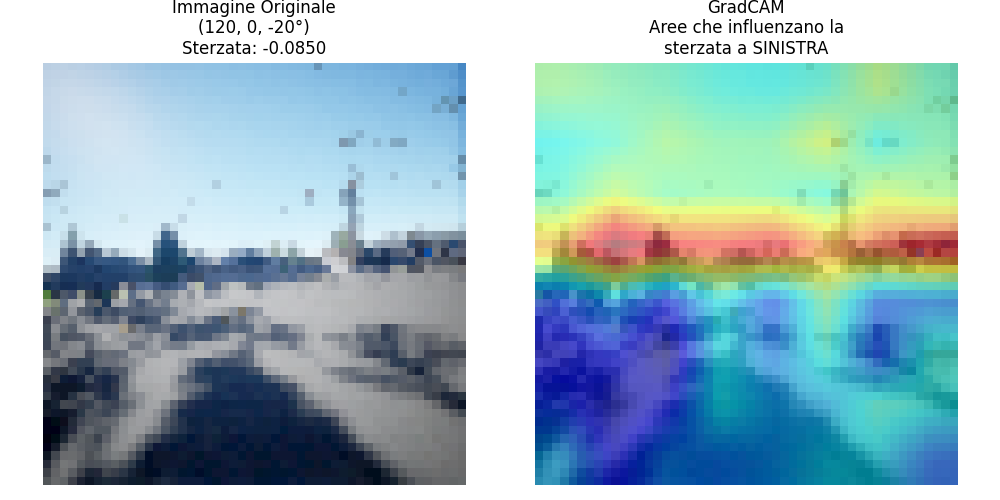
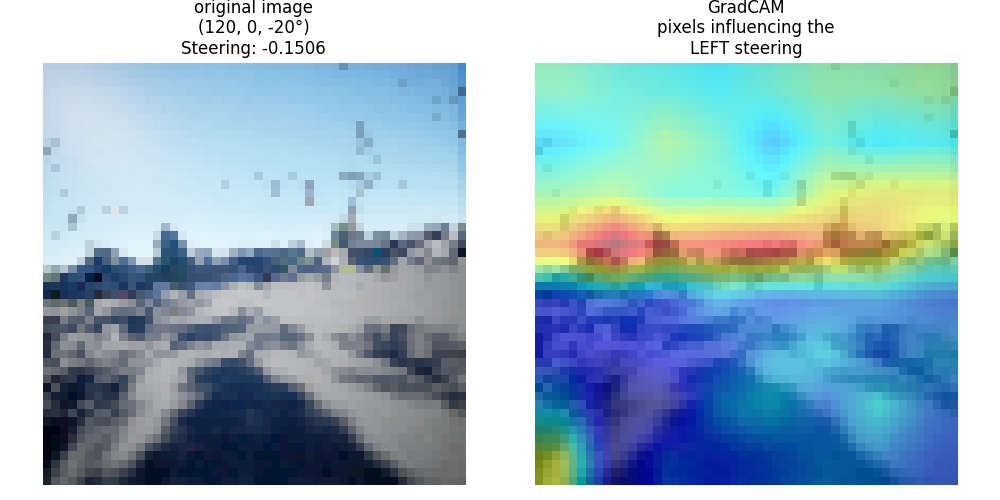
Beta_fixing

diff --git a/grad_cam.py b/grad_cam.py
@@ -14,30 +14,30 @@ from scripts.network import NatureCNN
 from pytorch_grad_cam import GradCAM, HiResCAM, ScoreCAM, GradCAMPlusPlus
 import importlib.metadata
 
-print("🧪 Versione grad-cam in uso:", importlib.metadata.version("grad-cam"))
+print("grad-cam version:", importlib.metadata.version("grad-cam"))
 
 import inspect
 
-print("📦 GradCAM viene importato da:", inspect.getfile(GradCAM))
+print("GradCAM imported from:", inspect.getfile(GradCAM))
 
 from pytorch_grad_cam.utils.image import show_cam_on_image
 import math
 
-# Caricamento delle configurazioni
+# configuration loading
 with open('scripts/env_config.yml', 'r') as f:
     env_config = yaml.safe_load(f)
 
 with open('config.yml', 'r') as f:
     config = yaml.safe_load(f)
 
-# Impostazione forma dell'immagine per RGB
+# image shape RGB
 image_shape = (50, 50, 3)
 
-# Device globale
+# Device
 device = torch.device("cuda" if torch.cuda.is_available() else "cpu")
-print(f"🔥 CAM verrà eseguito su: {device}")
+print(f" Grad_CAM will run on: {device}")
 
-# Creazione ambiente
+# environment creation
 env = DummyVecEnv([lambda: gym.make(
     "scripts:airsim-env-v0",
     ip_address="127.0.0.1",
@@ -46,106 +46,100 @@ env = DummyVecEnv([lambda: gym.make(
     input_mode="single_rgb"
 )])
 
-# Trasformazione ambiente
 env = VecTransposeImage(env)
 
-# Caricamento del modello pre-addestrato
+# load pretrained model
 model_path = "saved_policy/best_model.zip"
 model = PPO.load(model_path, env=env)
 
-# Analizzo la struttura del modello per il debug
+# debug to analyze the CNN structure
 for name, module in model.policy.named_modules():
     if isinstance(module, nn.Linear):
-        print(f"Layer lineare '{name}': input={module.in_features}, output={module.out_features}")
+        print(f"linear Layer '{name}': input={module.in_features}, output={module.out_features}")
     elif isinstance(module, nn.Conv2d):
         print(
-            f"Layer conv '{name}': input={module.in_channels}, output={module.out_channels}, kernel={module.kernel_size}")
+            f"conv Layer '{name}': input={module.in_channels}, output={module.out_channels}, kernel={module.kernel_size}")
 
 
-# Classe per estrarre solo la parte CNN dal modello PPO
-# Questa classe è semplificata per funzionare solo con GradCAM ed evitare errori di dimensione
+# class to extract only the CNN part from PPO model
 class CNNOnly(nn.Module):
     def __init__(self, policy):
         super(CNNOnly, self).__init__()
-        # Estrai solamente il modulo CNN
+        # extract only CNN
         self.features = policy.features_extractor.cnn
 
     def forward(self, x):
-        # Passa attraverso la CNN e restituisci direttamente le feature maps
+        # pass through CNN and return feature maps
         return self.features(x)
-# Funzione per ottenere un'immagine da AirSim
+# get AirSim image
 def get_airsim_image(client):
     rgb_image_request = airsim.ImageRequest(
         0, airsim.ImageType.Scene, False, False)
     responses = client.simGetImages([rgb_image_request])
 
-    # Utilizza frombuffer invece di fromstring (deprecato)
+
     img1d = np.frombuffer(responses[0].image_data_uint8, dtype=np.uint8)
     img2d = np.reshape(img1d, (responses[0].height, responses[0].width, 3))
 
     return img2d
 
 
-# Target personalizzato per GradCAM per la classificazione binaria
+# biary classification semplification: only right or left
 class BinaryClassificationTarget:
     def __init__(self, category_index):
         self.category_index = category_index
 
     def __call__(self, model_output):
-        # Per un canale specifico (0 per sinistra, 1 per destra)
+        # 0 for the left, 1 for the righ (if the output has two dimensions)
         if model_output.shape[1] > 1:
-            # Se l'output ha più canali
             return model_output[:, self.category_index]
         else:
-            # Se l'output è un singolo valore, lo trattiamo in modo speciale
-            # Per il canale 0 (sinistra), ritorniamo -1 * output
-            # Per il canale 1 (destra), ritorniamo l'output
+            # if the output is a single value
+            # for analyzing label 0 (left), return -1 * output
+            # for analyzing label 1 (right), return output
             return model_output if self.category_index == 1 else -model_output
 
 
-# Funzione per posizionare l'auto e analizzare l'immagine con GradCAM
+# set position and analyze image with Grad-Cam
 def analyze_with_gradcam(x_pos, y_pos, yaw_degrees, methods=None):
     if methods is None:
         methods = [GradCAM]
 
-    # Connessione ad AirSim
+    # AirSim connection
     client = airsim.CarClient()
     client.confirmConnection()
     client.enableApiControl(True)
 
-    # Reset della simulazione
+    # reset simulation
     client.reset()
 
-    # Conversione gradi in radianti per la rotazione
+    # conversion of the degrees
     yaw_radians = math.radians(yaw_degrees)
 
-    # Creazione della pose per posizionare l'auto
+    # set car position
     pose = airsim.Pose(airsim.Vector3r(x_pos, y_pos, 0), airsim.to_quaternion(0, 0, yaw_radians))
-
-    # Posizionamento dell'auto
     client.simSetVehiclePose(pose, ignore_collision=True)
 
-    # Attesa per stabilizzare la simulazione
+    # wait a bit to let the car reset
     time.sleep(1)
 
-    # Acquisizione dell'immagine dalla telecamera
+    # get image from camera
     image = get_airsim_image(client)
 
-    # Ridimensionamento dell'immagine per il modello
+    # resize
     img_resized = cv2.resize(image, (50, 50))
     img_rgb = cv2.cvtColor(img_resized, cv2.COLOR_BGR2RGB)
 
-    # Normalizzazione immagine per la visualizzazione
+    # normalization
     img_display = img_rgb.astype(np.float32) / 255.0
 
-    # Preparazione dell'immagine per il modello
+    # prepare image for the model
     img_chw = np.transpose(img_rgb, (2, 0, 1))
 
-    # Creazione del wrapper per il modello
+    # wrapper creation
     cnn_model = CNNOnly(model.policy)
 
-    # Strato target per GradCAM (ultimo strato convoluzionale)
-    # Usiamo l'ultimo layer convoluzionale prima di Flatten
+    # for grad-Cam only the last convolutional layer is used
     last_conv_layer = None
     for layer in cnn_model.features:
         if isinstance(layer, nn.Conv2d):
@@ -155,109 +149,107 @@ def analyze_with_gradcam(x_pos, y_pos, yaw_degrees, methods=None):
 
     print(f"Layer target per GradCAM: {last_conv_layer}")
 
-    # Preparazione immagine per CAM
+    # prepare the image for Grad-Cam
     input_tensor = torch.from_numpy(img_chw).unsqueeze(0).float().to(device)
 
     print(f"Debug - input_tensor shape: {input_tensor.shape}")
     print(f"Debug - target_layers: {target_layers}")
 
-    # Esecuzione della predizione con il modello completo
+    # prediction of the action with the model
     with torch.no_grad():
         action, _ = model.policy.predict(np.expand_dims(img_chw, axis=0), deterministic=True)
-    print(f"Shape of model output: {action.shape}")  # Stampa la forma dell'output del modello
+    print(f"Shape of model output: {action.shape}")
     steering_value = float(action[0])
 
-    # Riepilogo informazioni
-    print(f"Posizione: ({x_pos}, {y_pos}), Rotazione: {yaw_degrees}°")
-    print(f"Valore di sterzata predetto: {steering_value:.4f} (range: -1 a 1)")
-    print(f"  - Interpretazione: {'Sterza a destra' if steering_value > 0 else 'Sterza a sinistra'}")
+    # informations
+    print(f"Position: ({x_pos}, {y_pos}), Rotation: {yaw_degrees}°")
+    print(f"Value of steering: {steering_value:.4f} (range: -1 a 1)")
+    print(f"  - Interpretation: {'right steering' if steering_value > 0 else 'left steering'}")
 
-    # Creazione della figura per visualizzare i risultati
+    # plot results
     n_cols = len(methods) + 1
     plt.figure(figsize=(n_cols * 5, 5))
 
-    # Visualizzazione immagine originale
+    # original image
     plt.subplot(1, n_cols, 1)
     plt.imshow(img_display)
-    plt.title(f'Immagine Originale\n({x_pos}, {y_pos}, {yaw_degrees}°)\nSterzata: {steering_value:.4f}')
+    plt.title(f'original image\n({x_pos}, {y_pos}, {yaw_degrees}°)\nSteering: {steering_value:.4f}')
     plt.axis('off')
 
-    # Applicazione dei vari metodi CAM
+    # CAM methods
     for i, method_class in enumerate(methods):
         method_name = method_class.__name__
 
-        # Creiamo la visualizzazione per il target
+        # do the CAM algorithm
         try:
 
             cam = method_class(model=cnn_model, target_layers=target_layers)
 
-            # MOLTO IMPORTANTE: non usare alcun target per GradCAM v1.5.5
-            # Questo utilizzerà semplicemente tutte le feature maps
+            # use all feature maps
             grayscale_cam = cam(input_tensor=input_tensor)
-            grayscale_cam = grayscale_cam[0, :]  # Prima immagine del batch
+            grayscale_cam = grayscale_cam[0, :]  # first batch image
 
 
-            # Visualizzazione risultati
+            # plot results
             plt.subplot(1, n_cols, i + 2)
 
             visualization = show_cam_on_image(img_display, grayscale_cam, use_rgb=True)
             plt.imshow(visualization)
 
             if steering_value >= 0:
-                plt.title(f'{method_name}\nAree che influenzano la\nsterzata a DESTRA')
+                plt.title(f'{method_name}\npixels influencing the\nRIGHT steering')
             else:
-                plt.title(f'{method_name}\nAree che influenzano la\nsterzata a SINISTRA')
+                plt.title(f'{method_name}\npixels influencing the\nLEFT steering')
 
             plt.axis('off')
         except Exception as e:
-            print(f"Errore con {method_name}: {e}")
+            print(f"Error with {method_name}: {e}")
             plt.subplot(1, n_cols, i + 2)
-            plt.text(0.5, 0.5, f"Errore con {method_name}:\n{str(e)}",
+            plt.text(0.5, 0.5, f"Error with {method_name}:\n{str(e)}",
                      ha='center', va='center', wrap=True)
             plt.axis('off')
 
     plt.tight_layout()
 
-    # Salviamo l'analisi
+    # save all
     grad_cam_save_path = f"grad_cam_analysis_{x_pos}_{y_pos}_{yaw_degrees}.png"
     plt.savefig(grad_cam_save_path)
-    print(f"Analisi GradCAM salvata in: {grad_cam_save_path}")
+    print(f"GradCAM saved in: {grad_cam_save_path}")
 
     plt.show()
 
-    # Disabilitazione del controllo API e chiusura della connessione
+    # switch off the control
     client.enableApiControl(False)
 
     return steering_value
 
 
-# Funzione per analizzare multiple posizioni
+# analyze multiple positions
 def analyze_multiple_positions():
-    # Definizione dei metodi CAM da utilizzare
-    # Utilizziamo solo GradCAM per iniziare, poiché è il più stabile
-    methods = [GradCAM]  # Puoi aggiungere altri metodi dopo che GradCAM funziona
+
+    methods = [GradCAM]  # you can also add something else
 
     positions = [
-        # Lista di posizioni da analizzare: (x, y, yaw)
-        (119, 3, 20),  # Posizione centrale, direzione in avanti
-        (120, 0, -20),  # Posizione centrale, orientata a -20 gradi
+        # List of positions to analyze: (x, y, yaw)
+        (119, 3, 20),
+        (120, 0, -20),
     ]
 
     results = []
     for i, (x, y, yaw) in enumerate(positions):
-        print(f"\n===== Analisi posizione {i + 1}/{len(positions)} =====")
+        print(f"\n===== analyzing position {i + 1}/{len(positions)} =====")
         try:
             steering = analyze_with_gradcam(x, y, yaw, methods)
             results.append((x, y, yaw, steering))
         except Exception as e:
-            print(f"Errore durante l'analisi della posizione {i + 1}: {e}")
-        time.sleep(2)  # Attesa tra le posizioni
+            print(f"Error with position {i + 1}: {e}")
+        time.sleep(2)  # wait a bit
 
-    # Stampa un riepilogo dei risultati
+    # plots results
     if results:
-        print("\n===== Riepilogo dei risultati =====")
+        print("\n===== results =====")
         for i, (x, y, yaw, steering) in enumerate(results):
-            print(f"Posizione {i + 1}: ({x}, {y}, {yaw}°) -> Sterzata: {steering:.4f}")
+            print(f"Position {i + 1}: ({x}, {y}, {yaw}°) -> Steering: {steering:.4f}")
 
 
 # Esecuzione del programma
@@ -265,4 +257,4 @@ if __name__ == "__main__":
     try:
         analyze_multiple_positions()
     except Exception as e:
-        print(f"Errore generale: {e}")
+        print(f"general error: {e}")

diff --git a/custom_policy.py b/custom_policy.py
@@ -5,6 +5,23 @@ from torch.distributions import Beta
 from stable_baselines3.common.policies import ActorCriticPolicy
 from stable_baselines3.common.torch_layers import BaseFeaturesExtractor
 
+class BetaDistribution(Beta):
+    def get_actions(self, deterministic=False):
+        if deterministic:
+            # Per la distribuzione Beta, la moda è:
+            # (alpha - 1) / (alpha + beta - 2) quando sia alpha che beta sono > 1
+            alpha = self.concentration1
+            beta = self.concentration0
+            # Gestisci il caso in cui alpha o beta siano <= 1
+            mode = th.where(
+                (alpha > 1) & (beta > 1),
+                (alpha - 1) / (alpha + beta - 2),
+                th.full_like(alpha, 0.5)  # Valore di default se non si può calcolare la moda
+            )
+            return mode
+        else:
+            return self.sample()
+
 
 class BetaPolicy(ActorCriticPolicy):
     def __init__(
@@ -41,7 +58,7 @@ class BetaPolicy(ActorCriticPolicy):
         alpha = th.log(1 + th.exp(mean_actions[..., :action_dim])) + 1.0  # Assicura che alpha > 1
         beta = th.log(1 + th.exp(mean_actions[..., action_dim:])) + 1.0  # Assicura che beta > 1
 
-        return Beta(alpha, beta)
+        return BetaDistribution(alpha, beta)
 
     def forward(self, obs, deterministic=False):
         # Assicuriamoci che le osservazioni siano sul dispositivo corretto
@@ -61,3 +78,20 @@ class BetaPolicy(ActorCriticPolicy):
         scaled_actions = (actions * 2.0 - 1.0).reshape((-1, *self.action_space.shape))
 
         return scaled_actions, values, log_prob
+
+    def evaluate_actions(self, obs, actions):
+        # Assicuriamoci che le osservazioni siano sul dispositivo corretto
+        obs = obs.to(self.device)
+
+        # Riscala le azioni da [-1, 1] a [0, 1] per la distribuzione Beta
+        rescaled_actions = (actions + 1.0) / 2.0
+
+        features = self.extract_features(obs)
+        latent_pi, latent_vf = self.mlp_extractor(features)
+        values = self.value_net(latent_vf)
+        distribution = self._get_action_dist_from_latent(latent_pi)
+
+        log_prob = distribution.log_prob(rescaled_actions).sum(dim=1)
+        entropy = distribution.entropy().sum(dim=1)
+
+        return values, log_prob, entropy
